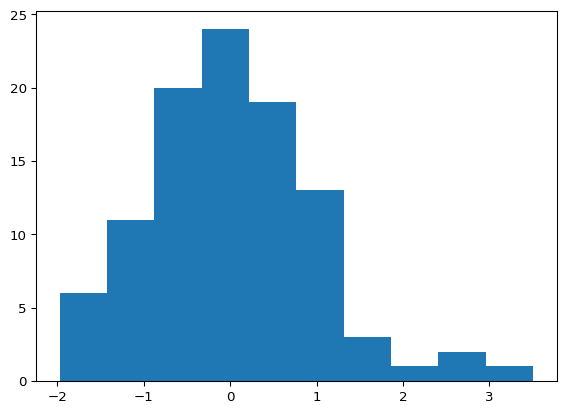
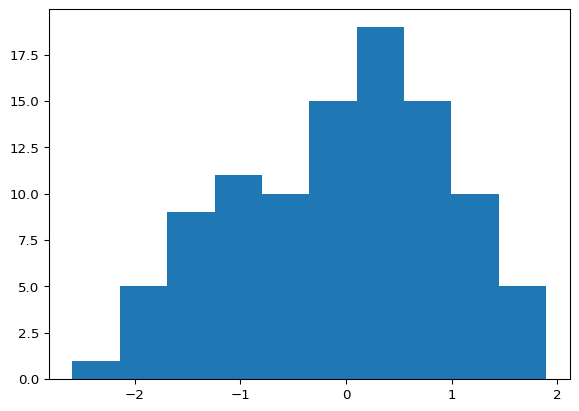
Built site for gh-pages

diff --git a/units/unit1.html b/units/unit1.html
@@ -193,7 +193,7 @@ $$
 <p>This is an example of using qmd as the source document.</p>
 <section id="evaluated-python-code-chunk-with-a-plot" class="level2">
 <h2 class="anchored" data-anchor-id="evaluated-python-code-chunk-with-a-plot">Evaluated Python code chunk, with a plot</h2>
-<div id="6140c628" class="cell" data-execution_count="1">
+<div id="067dd56e" class="cell" data-execution_count="1">
 <details open="" class="code-fold">
 <summary>Code</summary>
 <div class="sourceCode cell-code" id="cb1"><pre class="sourceCode python code-with-copy"><code class="sourceCode python"><span id="cb1-1"><a href="#cb1-1" aria-hidden="true" tabindex="-1"></a><span class="im">import</span> numpy <span class="im">as</span> np</span>
@@ -211,7 +211,7 @@ $$
 </div>
 </div>
 <div class="cell-output cell-output-display" data-execution_count="1">
-<pre><code>np.float64(-0.06330420722518199)</code></pre>
+<pre><code>np.float64(-0.2714982299282732)</code></pre>
 </div>
 </div>
 </section>
@@ -273,7 +273,7 @@ Tip with Title
 </div>
 <div id="tabset-1-2" class="tab-pane" role="tabpanel" aria-labelledby="tabset-1-2-tab">
 <p>This code is executed.</p>
-<div id="c05639da" class="cell" data-execution_count="2">
+<div id="279c4caa" class="cell" data-execution_count="2">
 <details open="" class="code-fold">
 <summary>Code</summary>
 <div class="sourceCode cell-code" id="cb4"><pre class="sourceCode python code-with-copy"><code class="sourceCode python"><span id="cb4-1"><a href="#cb4-1" aria-hidden="true" tabindex="-1"></a><span class="kw">def</span> fizz_buzz(num):</span>

diff --git a/units/unit3.html b/units/unit3.html
@@ -190,7 +190,7 @@ $$
 <p>This is an example of using qmd as the source document with pdf as one target. I’ve taken out the qmd stuff that doesn’t seem to render to pdf.</p>
 <section id="evaluated-python-code-chunk-with-a-plot" class="level2">
 <h2 class="anchored" data-anchor-id="evaluated-python-code-chunk-with-a-plot">Evaluated Python code chunk, with a plot</h2>
-<div id="3c18bf15" class="cell" data-execution_count="1">
+<div id="921dcce8" class="cell" data-execution_count="1">
 <details open="" class="code-fold">
 <summary>Code</summary>
 <div class="sourceCode cell-code" id="cb1"><pre class="sourceCode python code-with-copy"><code class="sourceCode python"><span id="cb1-1"><a href="#cb1-1" aria-hidden="true" tabindex="-1"></a><span class="im">import</span> numpy <span class="im">as</span> np</span>
@@ -208,7 +208,7 @@ $$
 </div>
 </div>
 <div class="cell-output cell-output-display" data-execution_count="1">
-<pre><code>np.float64(-0.007369393482030593)</code></pre>
+<pre><code>np.float64(-0.06741085321819586)</code></pre>
 </div>
 </div>
 </section>

diff --git a/resume.html b/resume.html
@@ -416,7 +416,7 @@ August 2018 – June 2021 | Fremont CA
 <ul>
 <li><strong>Languages:</strong>
 <ul>
-<li><strong>Advanced:</strong> Python (NumPy, Pandas, Matplotlib, Scikit-learn), SQL, R (Shiny, ggplot2, dplyr, tidyverse)</li>
+<li><strong>Advanced:</strong> Python (NumPy, Pandas, Matplotlib, Scikit-learn), SQL, R (Shiny, tidyverse)</li>
 <li><strong>Intermediate:</strong> Java, C++, MATLAB</li>
 </ul></li>
 <li><strong>Tools:</strong> GitHub, Jupyter Notebook, MS Office (Word, Excel, PowerPoint, Outlook), LaTeX</li>
